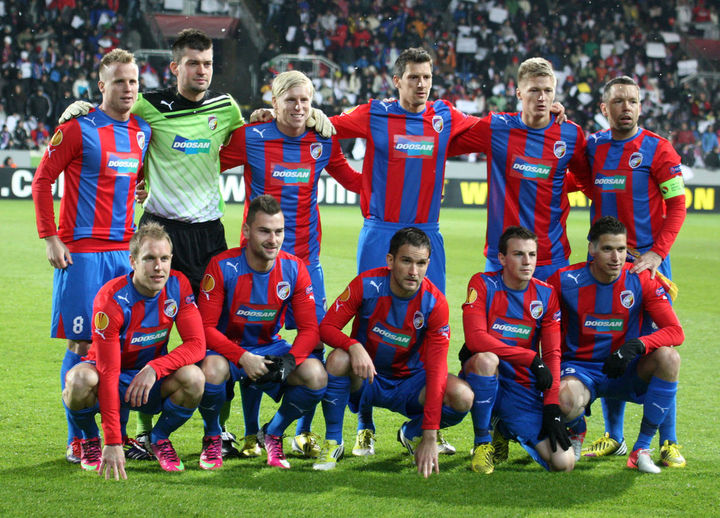
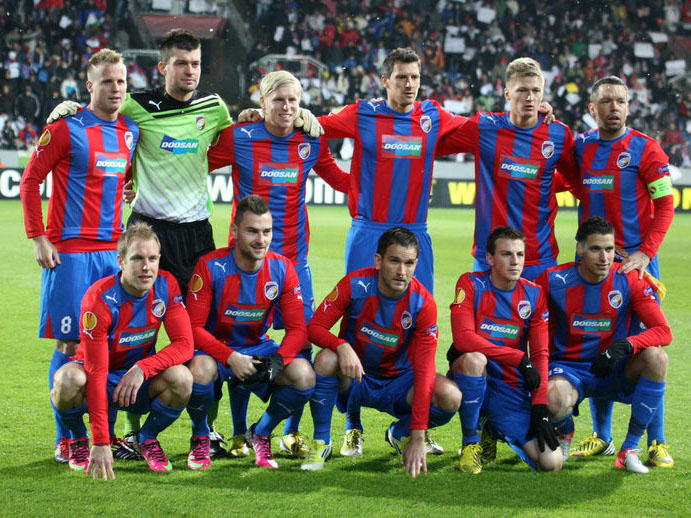
Pridani fotogalerie s komprimovanymi variantami

diff --git a/index.html b/index.html
@@ -1,107 +1,89 @@
 <!doctype html>
-<html lang="cs"> 
+<html lang="cs">
 
   <head>
     <meta charset="UTF-8">
-    
+
     <title>Nemiř a prorvi balón do sítě, říkal si Kovařík před vítěznou trefou</title>
-        
-    <link rel="stylesheet" href="css/index.css">    
-    <link rel="stylesheet" href="fancybox/jquery.fancybox.css">        
-    
+
+    <link rel="stylesheet" href="css/index.css">
+    <link rel="stylesheet" href="fancybox/jquery.fancybox.css">
+
   </head>
-  
-  <body>  
-    
+
+  <body>
+
     <div class="container">
-      
+
       <div class="head">
-        
+
         <p class="logo">
           <a href="#"><img src="img/sport_logo.png" height="100" alt="Weekly Sport" /></a>
         </p>
-        
+
         <div class="nav" role="navigation">
 
           <h2 class="hide-on-screen">Navigace</h2>
 
           <ul>
-            <li><a class="nav-item" href="#">Home</a></li>
+            <li><a class="nav-item" href="#">Úvod</a></li>
             <li><a class="nav-item" href="#">Články</a></li>
             <li><a class="nav-item" href="#">Výsledky</a></li>
             <li><b><a class="nav-item" href="#">Rozhovory</a></b></li>
             <div class="clear"></div>
           </ul>
-          
+
         </div><!-- .nav -->
-        
+
       </div><!-- .head -->
-      
+
       <div class="content" role="main">
-        
-        
+
+
         <h1>Nemiř a prorvi balón do sítě, říkal si Kovařík před vítěznou trefou</h1>
-        
+
         <p>
           <small>Dnes 09:35 - Plzeň</small>
         </p>
-        
+
         <p>Dělovka plzeňského záložníka Jana Kovaříka běhěm čtvrtečního večera rozmetala i poslední naděje fotbalistů SSC Neapol na zvrat bitvy o osmifinále Evropské ligy. Trefa jedné ze dvou zimních posil Západočechů zlomila odpor italského klubu a nasměrovala tým trenéra Vrby k historickému úspěchu. „Oba zápasy jsme odehráli fantasticky dozadu. Po vyřazení Neapole už musí mít lidé v Evropě Plzeň v podvědomí," přemítá čtyřiadvacetiletý záložník.</p>
-        
+
         <p class="photo">
           <a class="fancybox" href="img/plzen_1.jpg">
-            <img src="img/plzen_1.jpg" alt="Plzeň" width="540">
+            <img src="img/plzen_1.jpg" alt="Plzeň" width="540" height="304">
           </a>
         </p>
 
         <p><strong>Dokázal jste si vysnít lepší scénář prvního zápasu
         v&nbsp;plzeňském dresu na domácím stadiónu?</strong><br> Vše se odehrálo
         přesně, jak jsem si představoval. Vyhráli jsme, čímž jsme potvrdili
-        postup a já ještě přidal gól. Jsem neskutečně šťastný.</p>        
+        postup a já ještě přidal gól. Jsem neskutečně šťastný.</p>
 
         <p class="photo">
           <a class="fancybox" href="img/plzen_2.jpg">
-            <img src="img/plzen_2.jpg" alt="Plzeň" width="540">
+            <img src="img/plzen_2.jpg" alt="Plzeň" width="540" height="304">
           </a>
-        </p>   
+        </p>
 
         <p><strong>Před prvním gólem jste dostal centr od Františka Rajtorala. Co
         vám těsně před střelou běželo hlavou?</strong><br> Chtěl jsem balón za
         každou cenu prorvat až do sítě, což se povedlo. Když jsem v&nbsp;Jablonci
         míval šance, tak jsem mířil, mířil a nikdy jsem se netrefil. Proti De
         Sanctisovi v&nbsp;neapolské brance jsem prostě zavřel oči a plácnul jsem to tam
-        (směje&nbsp;se).</p>           
-
-        <p class="photo">
-          <a class="fancybox" href="img/plzen_3.jpg">
-            <img src="img/plzen_3.jpg" alt="Plzeň" width="540">
-          </a>
-        </p>
+        (směje&nbsp;se).</p>
 
         <p><strong>Vážně jste nesledoval, jaké je postavení bránících hráčů a
         brankáře Neapole?</strong><br> Ano, dá se říct, že nesledoval. Prostě jsem to
         narval silou. Brankář naštěstí míč nezkrotil, však já ho tlačil do
         sítě i&nbsp;očima. A&nbsp;pak už jen viděl, jak se balon šourá přes čáru.
-        Zaplavila mě euforie a obrovská radost.</p>        
-
-        <p class="photo">
-          <a class="fancybox" href="img/plzen_4.jpg">
-            <img src="img/plzen_4.jpg" alt="Plzeň" width="540">
-          </a>
-        </p>
+        Zaplavila mě euforie a obrovská radost.</p>
 
         <p><strong>V&nbsp;okamžiku, kdy jste skóroval, potřebovala Neapol k&nbsp;postupu
         vstřelit čtyři branky. Byl jste si jistý, že místo v&nbsp;osmifinále vám už
         Italové nevyfouknou?</strong><br> Myslím, že rozhodnuto není za žádného
         stavu. Ale my jsme se i&nbsp;nadále drželi pokynů, hráli svůj fotbal a čekali
         na brejky. S&nbsp;přibývajícím časem bylo patrné, že hráči Neapole už
-        obratu nevěří a psychicky konec nezvládli.</p>        
-
-        <p class="photo">
-          <a class="fancybox" href="img/plzen_5.jpg">
-            <img src="img/plzen_5.jpg" alt="Plzeň" width="540">
-          </a>
-        </p>        
+        obratu nevěří a psychicky konec nezvládli.</p>
 
         <p><strong>Začali se hodně vztekat, předvedli i&nbsp;několik ostrých zákroků.
         Bylo těžké nenechat se vyprovokovat k&nbsp;oplácení?</strong><br> Je pravda, že
@@ -126,48 +108,85 @@
         určitě hodně bouřlivé prostředí, což člověka vyburcuje k&nbsp;ještě
         lepšímu výkonu.</p>
 
-        
+        <div class="gallery">
+
+          <h2>Galerie ze zápasu</h2>
+
+          <p class="gallery-item">
+            <a class="fancybox" href="img/plzen_3.jpg">
+              <img src="img/plzen_3_thumb.jpg" alt="Plzeň" width="170" height="128">
+            </a>
+          </p>
+          <p class="gallery-item">
+            <a class="fancybox" href="img/plzen_4.jpg">
+              <img src="img/plzen_4_thumb.jpg" alt="Plzeň" width="170" height="128">
+            </a>
+          </p>
+          <p class="gallery-item">
+            <a class="fancybox" href="img/plzen_5.jpg">
+              <img src="img/plzen_5_thumb.jpg" alt="Plzeň" width="170" height="128">
+            </a>
+          </p>
+          <p class="gallery-item">
+            <a class="fancybox" href="img/plzen_4.jpg">
+              <img src="img/plzen_4_thumb.jpg" alt="Plzeň" width="170" height="128">
+            </a>
+          </p>
+          <p class="gallery-item">
+            <a class="fancybox" href="img/plzen_5.jpg">
+              <img src="img/plzen_5_thumb.jpg" alt="Plzeň" width="170" height="128">
+            </a>
+          </p>
+          <p class="gallery-item">
+            <a class="fancybox" href="img/plzen_3.jpg">
+              <img src="img/plzen_3_thumb.jpg" alt="Plzeň" width="170" height="128">
+            </a>
+          </p>
+          <div class="clear"></div>
+        </div>
+
+
       </div><!-- .content -->
-      
+
       <div class="side" role="complementary">
-        
+
         <h2>Statistiky</h2>
-        
+
         <h3>Plzeň - Neapol 2:0</h3>
-        
-        <table> 
+
+        <table>
           <tbody><tr> <th class="small"><span class="rl-480-hide">Minuta</span><span class="rl-480-only">Min.</span></th> <th class="rl-480-hide-tablecell">Tým</th> <th class="player">Hráč</th> <th class="small">Akce</th> </tr> <tr> <td class="minute"> 51. </td> <td width="21" height="21" src="http://media.sport.cz/logos/21/57.png" title="" alt=""> </td> <td class="player"> Kovařík </td> <td class="score"> 1:0 </td> </tr> <tr> <td class="minute"> 74. </td> <td> <img width="21" height="21" src="http://media.sport.cz/logos/21/57.png" title="" alt=""> </td> <td class="player"> Tecl </td> <td class="score"> 2:0 </td> </tr> </tbody>
-        </table>        
-        
+        </table>
+
         <h3>Evropská liga 2012/13 - Skupina B</h3>
-        
+
         <table>
           <thead> <tr> <th colspan="100" class="teamsTableName"> Skupina B </th> </tr> <tr class="topBorder"> <th class="position "> <span class="rl-480-hide-inline" title="Umístění v tabulce">Pořadí</span> <span class="rl-480-only teams-position" title="Umístění v tabulce">Poř.</span> </th> <th class="left "> <span title="Jméno týmu">Tým</span> </th> <th class=" "> <span title="Počet utkání celkem">Z</span> </th> <th class=" rl-480-hide-tablecell"> <span title="Výhra">V</span> </th> <th class=" rl-480-hide-tablecell"> <span title="Remíza">R</span> </th> <th class=" rl-480-hide-tablecell"> <span title="Prohra">P</span> </th> <th class=" "> <span title="Celkové skóre">Skóre</span> </th> <th class="points "> <span title="Body celkem">Body</span> </th> </tr> </thead>
           <tbody> <tr class="strong"> <td class="position "> 1 </td> <td class="team "> <img class="rl-480-hide-inline" src="http://media.sport.cz/logos/21/57.png" alt="Plzeň" width="21" height="21"> Plzeň </td> <td class=" "> 6 </td> <td class=" rl-480-hide-tablecell"> 4 </td> <td class=" rl-480-hide-tablecell"> 1 </td> <td class=" rl-480-hide-tablecell"> 1 </td> <td class=" "> 11:4 </td> <td class="points "> 13 </td> </tr> <tr> <td class="position "> 2 </td> <td class="team "> <img class="rl-480-hide-inline" src="http://media.sport.cz/logos/21/132.png" alt="Atlético" width="21" height="21"> Atlético </td> <td class=" "> 6 </td> <td class=" rl-480-hide-tablecell"> 4 </td> <td class=" rl-480-hide-tablecell"> 0 </td> <td class=" rl-480-hide-tablecell"> 2 </td> <td class=" "> 7:4 </td> <td class="points "> 12 </td> </tr> <tr> <td class="position "> 3 </td> <td class="team "> <img class="rl-480-hide-inline" src="http://media.sport.cz/logos/21/3323.png" alt="Coimbra" width="21" height="21"> Coimbra </td> <td class=" "> 6 </td> <td class=" rl-480-hide-tablecell"> 1 </td> <td class=" rl-480-hide-tablecell"> 2 </td> <td class=" rl-480-hide-tablecell"> 3 </td> <td class=" "> 6:9 </td> <td class="points "> 5 </td> </tr> <tr> <td class="position "> 4 </td> <td class="team "> <img class="rl-480-hide-inline" src="http://media.sport.cz/logos/21/488.png" alt="Hapoel" width="21" height="21"> Hapoel </td> <td class=" "> 6 </td> <td class=" rl-480-hide-tablecell"> 1 </td> <td class=" rl-480-hide-tablecell"> 1 </td> <td class=" rl-480-hide-tablecell"> 4 </td> <td class=" "> 4:11 </td> <td class="points "> 4 </td> </tr> </tbody>
         </table>
-        
+
         <h2>Mapa místa utkání</h2>
-        
+
         <p class="map">
           <iframe width="340" height="200" frameborder="0" scrolling="no" marginheight="0" marginwidth="0" src="https://maps.google.com/maps?f=q&amp;source=s_q&amp;hl=en&amp;geocode=&amp;q=pra%C5%BEsk%C3%BD+hrad&amp;aq=&amp;sll=37.0625,-95.677068&amp;sspn=40.188298,78.925781&amp;ie=UTF8&amp;hq=pra%C5%BEsk%C3%BD+hrad&amp;hnear=&amp;radius=15000&amp;t=m&amp;ll=50.091512,14.402132&amp;spn=0.011013,0.029097&amp;z=14&amp;output=embed"></iframe>
-        </p>                      
-        
+        </p>
+
       </div><!-- .side -->
-      
+
       <div class="foot" role="contentinfo">
-        
+
         <p>
           <small>&copy; Copyright 2013 Weekly Sport, <a href="#">Autoři</a></small>
         </p>
-        
+
       </div><!-- .foot -->
-      
+
     </div><!-- .container -->
-    
-    <script type="text/javascript" src="http://code.jquery.com/jquery-1.8.3.min.js"></script>   
-    <script type="text/javascript" src="fancybox/jquery.fancybox.pack.js"></script>    
-    <script type="text/javascript" src="js/index.js"></script>    
-    
+
+    <script type="text/javascript" src="http://code.jquery.com/jquery-1.8.3.min.js"></script>
+    <script type="text/javascript" src="fancybox/jquery.fancybox.pack.js"></script>
+    <script type="text/javascript" src="js/index.js"></script>
+
   </body>
-    
+
 </html>

diff --git a/css/index.css b/css/index.css
@@ -3,14 +3,15 @@
 /* Zakladni vzhled a typografie  */
 @import 'core/base.css';
 
-/* Pomocne tridy: clearovani atd. */ 
+/* Pomocne tridy: clearovani atd. */
 @import 'core/helpers.css';
 
-/*  UI komponenty */ 
+/*  UI komponenty */
+@import 'ui/foot.css';
+@import 'ui/gallery.css';
 @import 'ui/head.css';
 @import 'ui/nav.css';
 @import 'ui/photo.css';
-@import 'ui/foot.css'; 
 
 /* Layout webu ve sloupeccich */
 @import 'ui/layout.css' screen;

diff --git a/css/ui/gallery.css b/css/ui/gallery.css
@@ -1,0 +1,24 @@
+/*
+
+--- Fotogalerie ---
+
+*/
+
+.gallery {
+	margin-right: -20px; /* Prostor pro margin treti .gallery-item v radku */
+}
+
+.gallery-item {
+	float: left;
+	width: 170px;
+	margin: 0 15px 15px 0;
+}
+
+.gallery-item img {
+	width: 170px;
+}
+
+.gallery-item a {
+	margin-bottom: 4px;
+}
+
